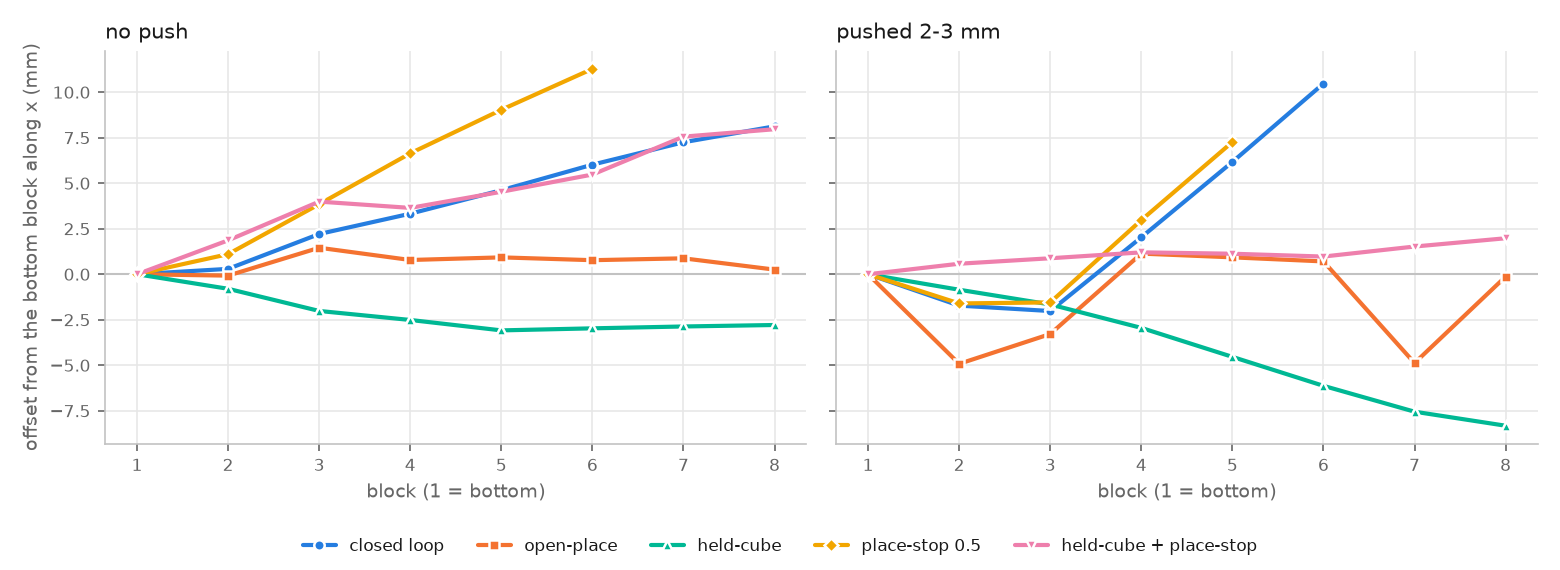
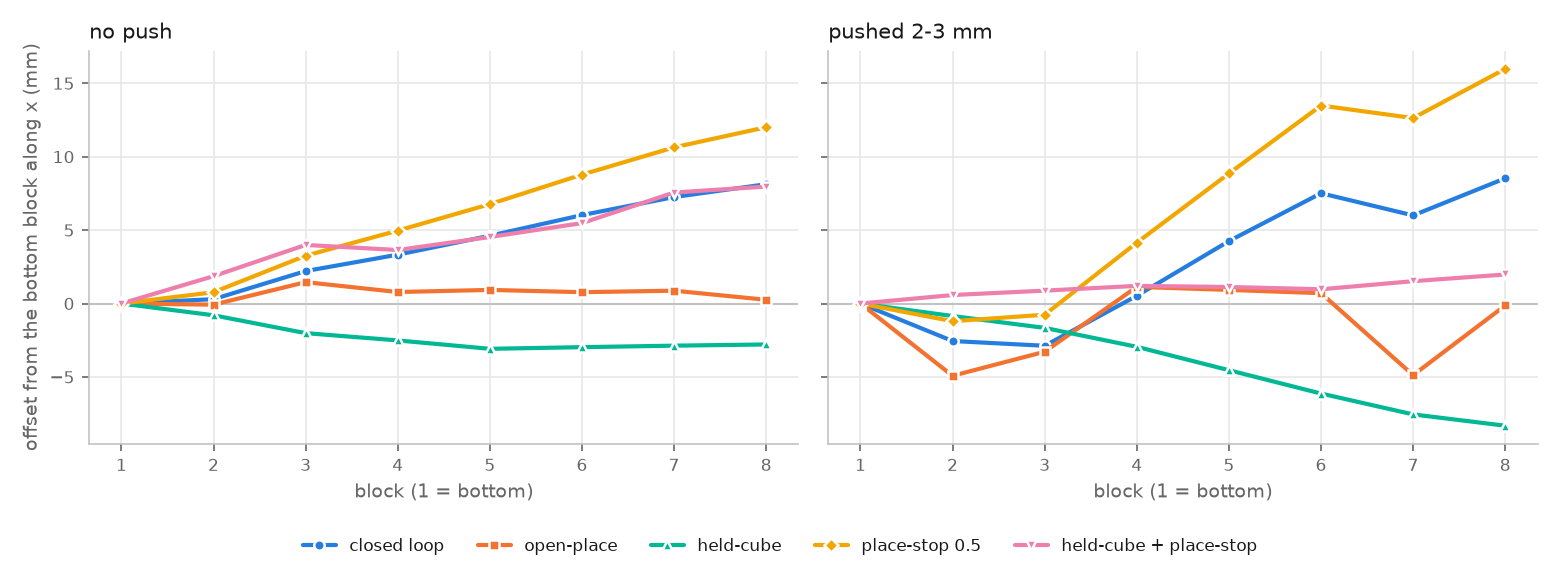
sim: no Place tracking range, as on the real robot; rerun the three runs it stopped
configs/control/sim.yaml no longer sets place_track_half_size. It was
centred on place_position, 1 cm behind block 1, so a tower leaning about
10 mm forward left it and the program stopped; real.yaml never set it.

The three comparison runs it stopped (closed loop pushed, place-stop with
and without the push) were rerun and docs/place_comparison.md updated:
all three placed 8 blocks; place-stop pushed leaned +16 mm and fell on
its own right after block 8, unnoticed by pick-place.

compare_runs.py: RUN_DIR@T renders the state T s into a run (the tower
before it fell).

diff --git a/tests/e2e/compare_runs.py b/tests/e2e/compare_runs.py
@@ -2,12 +2,14 @@
 as one side-by-side video. Used for docs/place_comparison.md.
 
   python tests/e2e/compare_runs.py towers --out towers.png LABEL=RUN_DIR [LABEL=RUN_DIR ...]
+      (RUN_DIR@T anywhere below: the state at T s into the run instead of the last one, e.g. just
+      before the tower fell.)
       One column per run: the tower at the end of the run, seen along the base frame's y axis
       (x, the gap between the fingers at the place pose, to the right), along its x axis (y to the
       left) and in perspective. Orthographic side views at a fixed scale (--px-per-mm), a dashed
       line through the bottom block's centre; the top block's offset from the bottom one below.
-      Rendered from the last simulation state the run saved (samples.npz), with the arm moved
-      Home and every cube that is not in the tower taken away.
+      Rendered from the last simulation state the run saved (samples.npz), or the one at T, with the
+      arm moved Home and every cube that is not in the tower taken away.
   python tests/e2e/compare_runs.py table LABEL=RUN_DIR [...]
       Markdown table: per run, each block's offset from the bottom one (x, y, mm) and the top's.
   python tests/e2e/compare_runs.py chart --out offsets.png "PANEL|LABEL=RUN_DIR" [...]
@@ -38,26 +40,34 @@ from sim import scene  # noqa: E402
 TOWER_RADIUS = 0.04  # cubes within this of the tower spot (horizontally) are in the tower
 
 
-def parse_runs(items: list[str]) -> list[tuple[str, pathlib.Path]]:
+def run_spec(spec: str) -> tuple[pathlib.Path, float | None]:
+    """RUN_DIR or RUN_DIR@T (seconds into the run)."""
+    path, _, at = spec.partition("@")
+    return pathlib.Path(path), float(at) if at else None
+
+
+def parse_runs(items: list[str]) -> list[tuple[str, pathlib.Path, float | None]]:
     out = []
     for it in items:
-        label, _, path = it.partition("=")
-        if not path:
+        label, _, spec = it.partition("=")
+        if not spec:
             raise SystemExit(f"{it!r}: expected LABEL=RUN_DIR")
-        out.append((label, pathlib.Path(path)))
+        out.append((label, *run_spec(spec)))
     return out
 
 
 class FinalState:
-    """The simulation at the end of a run, in a fresh model of its scene."""
+    """The simulation at the end of a run (or `at` seconds into it), in a fresh model of its scene."""
 
-    def __init__(self, run: pathlib.Path):
+    def __init__(self, run: pathlib.Path, at: float | None = None):
         self.report = json.loads((run / "report.json").read_text())
         self.cfg = scene.load_config(self.report["scene"])
         self.m, self.d, _ = scene.build_physics(self.cfg)
         m = self.m
         m.vis.global_.offwidth, m.vis.global_.offheight = 2000, 2000
-        qpos = np.load(run / "samples.npz")["qpos"][-1]
+        samples = np.load(run / "samples.npz")
+        k = -1 if at is None else int(np.searchsorted(samples["t"], at, side="right")) - 1
+        qpos = samples["qpos"][k]
         self.d.qpos[:] = qpos
         self.frame = scene.base_frame(self.cfg)
         self.s = self.cfg["cube_size"] / 2
@@ -131,21 +141,26 @@ def text_bar(width: int, lines: list[str], scale=0.5, height=None) -> np.ndarray
 
 def towers(args) -> None:
     cols = []
-    for label, run in parse_runs(args.runs):
-        st = FinalState(run)
+    for label, run, at in parse_runs(args.runs):
+        st = FinalState(run, at)
         off = st.offsets_mm()
         views = [st.render(v, args.px_per_mm, args.width_mm, args.height_mm) for v in ("along_y", "along_x")]
         w = views[0].shape[1]
         persp = st.render("persp", args.px_per_mm, args.width_mm, args.width_mm * 1.1)
         top = off[-1] if len(off) else (0.0, 0.0)
         steps = np.linalg.norm(np.diff(off, axis=0), axis=1) if len(off) > 1 else np.zeros(1)
-        disturbed = len(st.report.get("tower_disturbed") or [])
+        events = st.report.get("tower_disturbed") or []
+        disturbed = len([e for e in events if at is None or e[0] <= at])
         info = [
-            f"{len(off)} blocks" + (f", {disturbed} disturbed" if disturbed else ""),
+            f"{len(off)} blocks"
+            + (f", {disturbed} disturbed" if disturbed else "")
+            + (f" (at {at:.1f} s)" if at else ""),
             "top - bottom (mm):",
             f"  x {top[0]:+.1f}   y {top[1]:+.1f}",
             f"largest step {steps.max():.1f} mm",
         ]
+        if any(at is not None and e[0] > at for e in events):
+            info.append("then the tower fell")
         sep = np.full((4, w, 3), 255, np.uint8)
         col = np.vstack([text_bar(w, [label], 0.55, 30), views[0], sep, views[1], sep, persp, text_bar(w, info, 0.45)])
         cols.append(col)
@@ -161,7 +176,7 @@ def towers(args) -> None:
 
 
 def table(args) -> None:
-    runs = [(label, FinalState(run)) for label, run in parse_runs(args.runs)]
+    runs = [(label, FinalState(run, at)) for label, run, at in parse_runs(args.runs)]
     n = max(len(st.tower) for _, st in runs)
     print("| 块 | " + " | ".join(label for label, _ in runs) + " |")
     print("|---|" + "---|" * len(runs))
@@ -188,9 +203,9 @@ def chart(args) -> None:
 
     panels: dict[str, list] = {}
     for item in args.runs:
-        head, _, path = item.partition("=")
+        head, _, spec = item.partition("=")
         panel, _, label = head.partition("|")
-        panels.setdefault(panel, []).append((label, FinalState(pathlib.Path(path)).offsets_mm()))
+        panels.setdefault(panel, []).append((label, FinalState(*run_spec(spec)).offsets_mm()))
     labels = list(dict.fromkeys(label for runs in panels.values() for label, _ in runs))
     fig, axes = plt.subplots(1, len(panels), figsize=(5.2 * len(panels), 3.8), sharex=True, sharey=True, dpi=150)
     axes = np.atleast_1d(axes)
@@ -221,7 +236,7 @@ def chart(args) -> None:
 
 
 def video(args) -> None:
-    (la, ra), (lb, rb) = parse_runs(args.runs)
+    (la, ra, _), (lb, rb, _) = parse_runs(args.runs)
     caps = [cv2.VideoCapture(str(r / "record.mp4")) for r in (ra, rb)]
     fps_in = caps[0].get(cv2.CAP_PROP_FPS) or 15.0
     step = max(1, round(args.speed * fps_in / args.fps))

diff --git a/docs/place_comparison.md b/docs/place_comparison.md
@@ -9,11 +9,11 @@
 
 ## 条件
 
-- 代码：`feat/mujoco-sim@f9f652e`，加上 e2e 的 `--nudge`、`--video` 两个选项（和本文同一批改动）；2026-11-27。
+- 代码：`feat/mujoco-sim@f9f652e`，加上 e2e 的 `--nudge`、`--video` 两个选项（和本文同一批改动）；2026-11-27。其中闭环抓偏、`place-stop` 两次在 2026-11-28 去掉仿真的 Place 跟踪范围后重跑（§2.4）。
 - 场景：地面场景（`configs/scene/sim_floor.yaml`，桌高 0.475 m），控制 `configs/control/sim.yaml`，视觉 `configs/vision/sim.yaml`。e2e 设 `control_param1` = 90、`control_param2` = 100，抓取区布局的随机种子为 1，每次运行相同。
 - 每次目标 8 块。坐标都是机械臂基座坐标系：x 向前，也是放置时两指之间的空隙方向；从第 2 块起，夹爪从塔的 −x 一侧逼近（[pick_place_flow.md](pick_place_flow.md) §2）。
 - **人为抓偏**（e2e `--nudge`）：每块抓起、离开抓取高度 15 mm 后，把手里的物块沿两指空隙方向推 2 ~ 3 mm，方向随机。推的序列每次运行都一样（种子 0），依次为 +2.64、−2.04、−2.02、+2.91、+2.61、+2.54、−2.94、+2.00 mm。
-- **每种方式只跑了一次。** 同一种方式在两种条件下差约 1 mm/层的情况也有（§2.3），所以小于这个量的差别不能作为结论。
+- **每种方式只跑了一次。** 运行之间的差别有 0.5 ~ 1 mm/层（§2.4），小于这个量的差别不能作为结论。
 
 ## 1. 转移方式：固定路点 vs 规划场景
 
@@ -85,13 +85,13 @@
 
 | 方式 | 不加干扰：块数 | 顶块相对底块 x, y（mm） | 最大错位 | 抓偏：块数 | 顶块相对底块 x, y（mm） | 最大错位 | 每块用时 |
 |---|---|---|---|---|---|---|---|
-| 闭环（默认） | 8 | +8.1, −2.5 | 1.9 | **6**（停下） | +10.5, −2.2 | 4.3 | 27.6 s |
+| 闭环（默认） | 8 | +8.1, −2.5 | 1.9 | 8 | +8.5, −2.8 | 3.8 | 27.6 s |
 | 开环 | 8 | +0.3, −0.1 | 1.5 | 8 | −0.1, −0.1 | 5.6 | 23.6 s |
 | `--held-cube` | 8 | −2.8, −3.1 | 1.2 | 8 | −8.3, −2.0 | 1.6 | 26.8 s |
-| `place-stop 0.5` | **6**（停下） | +11.3, −2.5 | 2.8 | **5**（停下） | +7.3, −1.5 | 4.5 | 28.1 s |
+| `place-stop 0.5` | 8 | +12.0, −2.5 | 2.5 | 8，**随后塔倒** | +16.0, −2.8 | 4.9 | 28.1 s |
 | `--held-cube` + `place-stop 0.5` | 8 | +8.0, −4.4 | 2.2 | 8 | +2.0, −2.4 | 0.7 | 28.6 s |
 
-每块用时是不加干扰那次的；抓偏时各方式的用时和它相差 0.4 s 以内。
+每块用时是不加干扰那次的；抓偏时各方式的用时和它相差 0.4 s 以内。`place-stop 0.5` 抓偏那次的塔和偏移都是倒之前（运行开始后 219.9 s）的。
 
 <details>
 <summary>每块沿 x、y 相对底块的偏移（mm）</summary>
@@ -100,45 +100,54 @@
 
 | 块 | 闭环 | 开环 | `--held-cube` | `place-stop 0.5` | 两项一起 |
 |---|---|---|---|---|---|
-| 2 | +0.3, −0.3 | −0.1, +0.1 | −0.8, −0.3 | +1.1, −0.3 | +1.9, −0.5 |
-| 3 | +2.2, −0.7 | +1.5, −0.0 | −2.0, −0.6 | +3.8, −0.8 | +4.0, −1.2 |
-| 4 | +3.3, −1.1 | +0.8, −0.1 | −2.5, −1.0 | +6.6, −1.3 | +3.6, −1.9 |
-| 5 | +4.6, −1.4 | +0.9, −0.1 | −3.1, −1.4 | +9.0, −1.9 | +4.5, −2.5 |
-| 6 | +6.0, −1.9 | +0.8, −0.2 | −3.0, −2.0 | +11.3, −2.5 | +5.5, −3.1 |
-| 7 | +7.3, −2.1 | +0.9, −0.1 | −2.9, −2.5 | — | +7.6, −3.8 |
-| 8 | +8.1, −2.5 | +0.3, −0.1 | −2.8, −3.1 | — | +8.0, −4.4 |
+| 2 | +0.3, −0.3 | −0.1, +0.1 | −0.8, −0.3 | +0.8, −0.3 | +1.9, −0.5 |
+| 3 | +2.2, −0.7 | +1.5, −0.0 | −2.0, −0.6 | +3.3, −0.7 | +4.0, −1.2 |
+| 4 | +3.3, −1.1 | +0.8, −0.1 | −2.5, −1.0 | +5.0, −1.1 | +3.6, −1.9 |
+| 5 | +4.6, −1.4 | +0.9, −0.1 | −3.1, −1.4 | +6.8, −1.4 | +4.5, −2.5 |
+| 6 | +6.0, −1.9 | +0.8, −0.2 | −3.0, −2.0 | +8.8, −1.8 | +5.5, −3.1 |
+| 7 | +7.3, −2.1 | +0.9, −0.1 | −2.9, −2.5 | +10.6, −2.2 | +7.6, −3.8 |
+| 8 | +8.1, −2.5 | +0.3, −0.1 | −2.8, −3.1 | +12.0, −2.5 | +8.0, −4.4 |
 
 人为抓偏：
 
 | 块 | 闭环 | 开环 | `--held-cube` | `place-stop 0.5` | 两项一起 |
 |---|---|---|---|---|---|
-| 2 | −1.7, −0.3 | −4.9, −0.1 | −0.9, −0.3 | −1.6, −0.3 | +0.6, −0.3 |
-| 3 | −2.0, −0.8 | −3.3, −0.1 | −1.7, −0.8 | −1.5, −0.7 | +0.9, −0.8 |
-| 4 | +2.0, −1.3 | +1.1, −0.1 | −2.9, −1.2 | +3.0, −1.1 | +1.2, −1.1 |
-| 5 | +6.2, −1.8 | +0.9, −0.1 | −4.5, −1.4 | +7.3, −1.5 | +1.1, −1.4 |
-| 6 | +10.5, −2.2 | +0.7, −0.1 | −6.1, −1.7 | — | +1.0, −1.7 |
-| 7 | — | −4.9, −0.1 | −7.6, −2.0 | — | +1.5, −2.0 |
-| 8 | — | −0.1, −0.1 | −8.3, −2.0 | — | +2.0, −2.4 |
+| 2 | −2.6, −0.4 | −4.9, −0.1 | −0.9, −0.3 | −1.2, −0.3 | +0.6, −0.3 |
+| 3 | −2.9, −0.8 | −3.3, −0.1 | −1.7, −0.8 | −0.8, −0.8 | +0.9, −0.8 |
+| 4 | +0.5, −1.2 | +1.1, −0.1 | −2.9, −1.2 | +4.1, −1.2 | +1.2, −1.1 |
+| 5 | +4.3, −1.7 | +0.9, −0.1 | −4.5, −1.4 | +8.9, −1.7 | +1.1, −1.4 |
+| 6 | +7.5, −2.1 | +0.7, −0.1 | −6.1, −1.7 | +13.5, −2.1 | +1.0, −1.7 |
+| 7 | +6.0, −2.4 | −4.9, −0.1 | −7.6, −2.0 | +12.6, −2.4 | +1.5, −2.0 |
+| 8 | +8.5, −2.8 | −0.1, −0.1 | −8.3, −2.0 | +16.0, −2.8 | +2.0, −2.4 |
 
 </details>
 
 ### 2.4 读法
 
 - **抓偏传不传到上面的层。**
-  - 闭环和 `place-stop` 不看手里的物块，抓偏原样留在这一层，并传给上面所有层：抓偏时这两种的塔跟着推的方向走（第 4 ~ 6 块都推了 +2.5 ~ +2.9 mm，这几层每层偏 +4 mm 左右）。
+  - 闭环和 `place-stop` 不看手里的物块，抓偏原样留在这一层，并传给上面所有层：抓偏时这两种的塔跟着推的方向走。第 4 ~ 6 块都推了 +2.5 ~ +2.9 mm，这几层闭环每层偏 +3.3 ~ +3.7 mm，`place-stop` 偏 +4.6 ~ +4.9 mm；第 7 块推了 −2.9 mm，两种都往回偏。
   - 开环每块都去同一个点，每层只带着自己那一块的抓偏，不累加：相邻层最大错位 5.6 mm，但顶块相对底块只偏 0.1 mm。
   - `--held-cube` 和两项一起用时，抓偏被消掉了：相邻层的错位不再跟着推的序列变，最大 1.6 mm 和 0.7 mm。
-- **不加干扰时每层都偏的量（系统偏差，沿 x）。** 闭环 +1.2 mm/层，`place-stop` +2.3 mm/层，`--held-cube` −0.4 mm/层，两项一起 +1.1 mm/层，开环约 0（仿真里机械臂几乎没有定位误差，见[放置闭环修正](place_closed_loop_analysis.md) §2.4）。
-  - `place-stop` 比闭环每层多偏 1.1 mm，和死区偏差的估计（沿 −x 约 1 mm/层，同上 §2.3）一致：去掉死区偏差后，原来被它抵消的那部分抓取偏差（沿 +x）露了出来。
+- **不加干扰时每层都偏的量（系统偏差，沿 x）。** 闭环 +1.2 mm/层，`place-stop` +1.7 mm/层，`--held-cube` −0.4 mm/层，两项一起 +1.1 mm/层，开环约 0（仿真里机械臂几乎没有定位误差，见[放置闭环修正](place_closed_loop_analysis.md) §2.4）。
+  - `place-stop` 比闭环每层多偏 0.5 mm。方向和死区偏差的估计一致：去掉沿 −x 约 1 mm/层的死区偏差后，原来被它抵消的那部分抓取偏差（沿 +x）露了出来（同上 §2.3）。大小只有估计的一半，但运行之间的差别就有这么大（见下），这一次分不清。
   - 闭环在这里每层偏 +1.2 mm，比[放置闭环修正](place_closed_loop_analysis.md) §2.4 的旧数据（8 块偏约 2 mm）大。旧数据是换 DISCOVERSE 模型、把末端点移到指尖之前测的，抓取偏差变了，这次没有再拆分各项。
-  - 看手里物块的两种方式，同一方式两次运行的差别就有约 1 mm/层：`--held-cube` 不加干扰 −0.4、抓偏 −1.2 mm/层；两项一起 +1.1、+0.3 mm/层。各只跑了一次，分不清是推的影响还是运行之间的波动。
-- **停下的三次**（闭环抓偏、`place-stop` 两次）不是塔倒了：放置调节时夹爪跟着歪了的塔走到了跟踪范围的边上（`configs/control/sim.yaml` 的 `place_track_half_size: [0.02, 0.02]`），程序报"跟踪目标连续 10 帧超出塔周围的跟踪范围"，按回车后回 Home 退出。跟踪范围以 `place_position_x/y` 为中心，第 1 块放在它前方 1 cm，所以塔顶沿 +x 偏到约 10 mm 就出界。要搭得更高，就要把这个范围放宽。
+- **运行之间的差别。**
+  - 第一轮里有三次（闭环抓偏、`place-stop` 两次）和重跑的条件只差跟踪范围（见下）。第 5 块的位置两次差 1.6 ~ 2.2 mm，约 0.5 mm/层，方向不一定。第一轮的跟踪范围在塔靠近边上时可能挡掉过调节步，所以这个差别里不全是波动。
+  - 看手里物块的两种方式，不加干扰和抓偏两次相差 0.8 mm/层：`--held-cube` −0.4、−1.2 mm/层；两项一起 +1.1、+0.3 mm/层。分不清是推的影响还是运行之间的波动。
+- **跟踪范围和塔倒。**
+  - 第一轮时 `configs/control/sim.yaml` 设了 Place 阶段的跟踪范围 `place_track_half_size: [0.02, 0.02]`，以 `place_position_x/y` 为中心，而第 1 块放在它前方 1 cm，所以塔顶沿 +x 偏到约 10 mm 就出界。闭环抓偏、`place-stop` 两次因此停在 5 ~ 6 块：程序报"跟踪目标连续 10 帧超出塔周围的跟踪范围"，按回车后回 Home 退出。
+  - 真机配置（`real.yaml`）不设这一项，Place 阶段不限位，所以仿真里也去掉了，这三次重跑。上面的图和表用的是重跑的结果。
+  - 重跑后，闭环抓偏和 `place-stop` 不加干扰都搭到了 8 块。`place-stop` 抓偏也放上了第 8 块，顶块相对底块偏 +16.0 mm；松开后约 0.1 s，塔自己倒了，没有碰到机械臂。
+  - 塔倒以后程序没有发现，继续按原来的层数往上放。
 - **用时。** 开环每块 23.6 s，其他 26.8 ~ 28.6 s，多出的 3 ~ 5 s 是放置时的视觉调节。
 
 ## 3. 小结
 
 - 转移方式：两种搭出来的塔一样。固定路点每次路径相同、可预期；规划场景的回程偶尔绕大弧线（这次是 0.48 m 高、0.67 m 远），用时也不稳定。
-- 放置方式：仿真里没有机械臂定位误差，所以闭环的长处体现不出来，开环最直。要对付抓偏，只有 `--held-cube`（及两项一起用）能消掉它，不让它传到上面的层；这两种方式自己每层还剩 −1.2 ~ +1.1 mm 的偏差，两次运行之间就差约 1 mm/层，要再多跑几次才能分出高下。
+- 放置方式：仿真里没有机械臂定位误差，所以闭环的长处体现不出来，开环最直。
+  - 要对付抓偏，只有 `--held-cube`（及两项一起用）能消掉它，不让它传到上面的层。
+  - `place-stop` 单用时抓偏照样逐层累加：抓偏那次 8 块偏到 16 mm，放完第 8 块塔就倒了。
+  - 看手里物块的两种方式自己每层还剩 −1.2 ~ +1.1 mm 的偏差，运行之间就差 0.5 ~ 1 mm/层，要再多跑几次才能分出高下。
 - 真机上机械臂有定位误差，`--held-cube` 还没有标定（[放置闭环修正](place_closed_loop_analysis.md) §6），这些结论要在真机上重新验证。
 
 ## 复现
@@ -154,7 +163,7 @@ pixi run test-e2e floor --blocks 8 --place-stop 0.5 [--nudge]
 pixi run test-e2e held-cube --blocks 8 --place-stop 0.5 [--nudge]
 ```
 
-图和录像由 `tests/e2e/compare_runs.py` 从运行目录生成（`towers`：最终的塔；`chart`：逐层偏移；`table`：偏移表；`video`：两次录像并排），用法见文件开头。§1 的动图从并排录像里截出：
+图和录像由 `tests/e2e/compare_runs.py` 从运行目录生成（`towers`：最终的塔；`chart`：逐层偏移；`table`：偏移表；`video`：两次录像并排），用法见文件开头。运行目录写成 `RUN_DIR@219.9` 时用运行开始后 219.9 s 的状态，`place-stop 0.5` 抓偏那次就是这样画出塔倒之前的样子。§1 的动图从并排录像里截出：
 
 ```bash
 ffmpeg -ss 18.3 -to 28.0 -i transfers.mp4 -vf "fps=10,scale=800:-2:flags=lanczos,split[a][b];[a]palettegen=max_colors=128:stats_mode=diff[p];[b][p]paletteuse=dither=bayer:bayer_scale=4:diff_mode=rectangle" transfers_block4.gif
